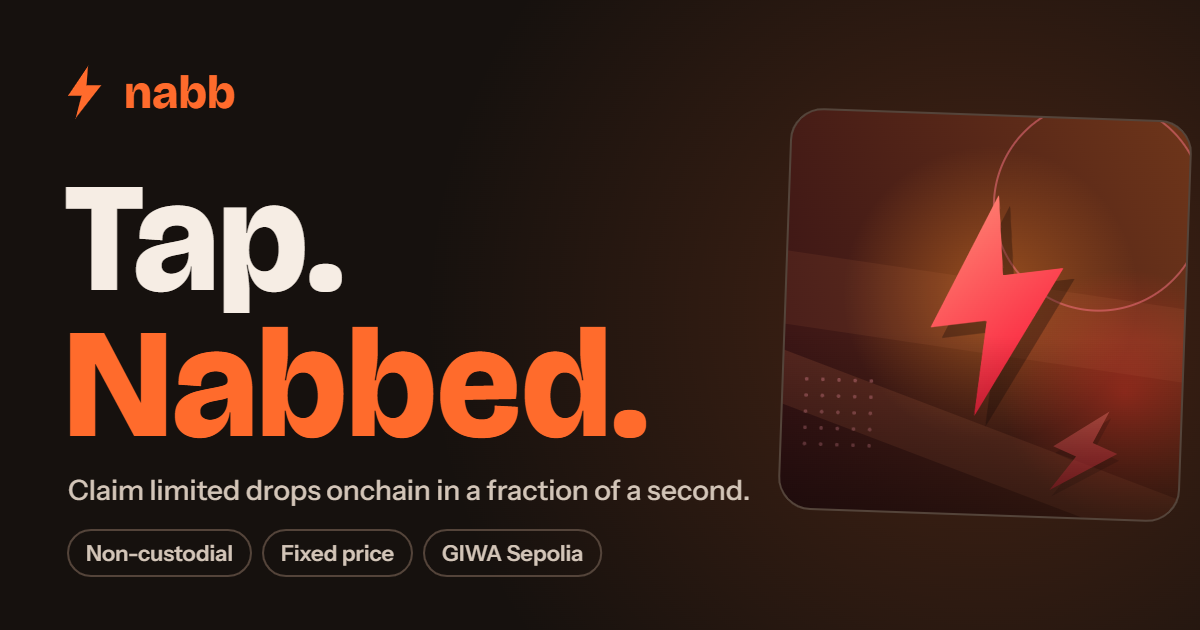
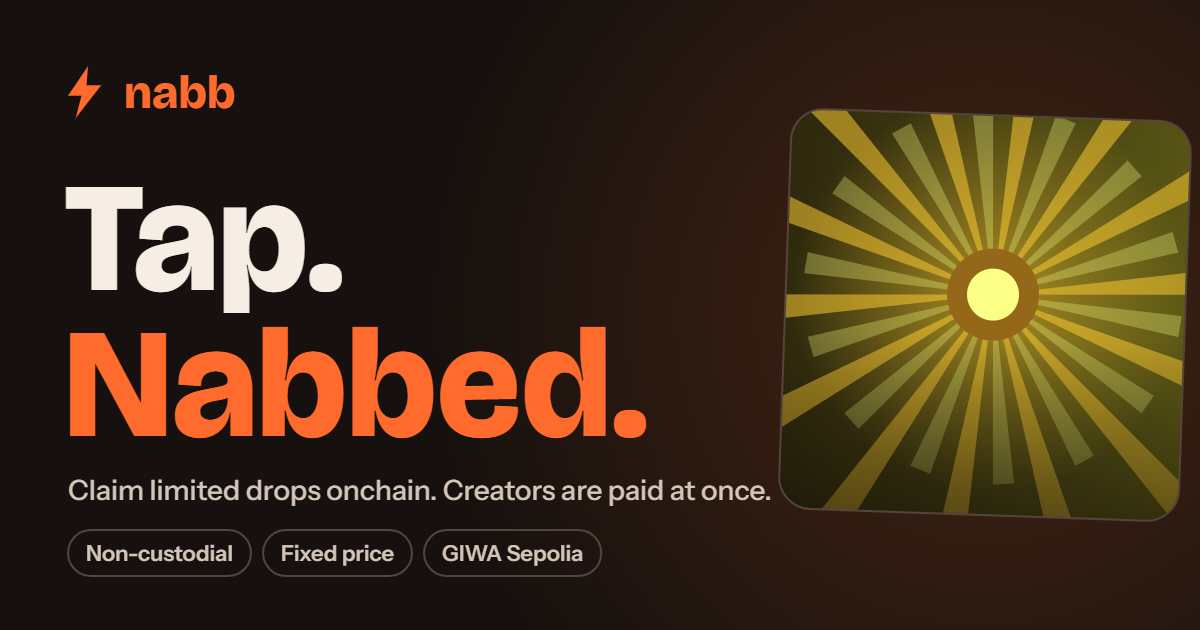
feat(web): refresh social card art and drop latency wording from page meta

Changed region(s): [[0.6475, 0.1508, 1.0, 0.8444], [0.37, 0.754, 0.6475, 0.8143]]

diff --git a/packages/web/index.html b/packages/web/index.html
@@ -6,7 +6,7 @@
     <meta name="theme-color" content="#16110e" />
     <meta
       name="description"
-      content="Claim limited drops onchain in a fraction of a second. Nabb is a non-custodial claim market on GIWA, confirmed from Flashblocks preconfirmations."
+      content="Claim limited drops onchain. Nabb is a non-custodial claim market on GIWA: the creator is paid in the same transaction, and your claim is preconfirmed from Flashblocks."
     />
     <link rel="canonical" href="https://nabb-giwa.vercel.app/" />
 
@@ -20,7 +20,7 @@
     <meta property="og:title" content="Nabb — Tap. Nabbed." />
     <meta
       property="og:description"
-      content="Claim limited drops onchain in a fraction of a second. Non-custodial, fixed price, live on GIWA Sepolia."
+      content="Claim limited drops onchain. Non-custodial, fixed price, live on GIWA Sepolia."
     />
     <meta property="og:url" content="https://nabb-giwa.vercel.app/" />
     <meta property="og:image" content="https://nabb-giwa.vercel.app/og.png" />
@@ -35,7 +35,7 @@
     <meta name="twitter:title" content="Nabb — Tap. Nabbed." />
     <meta
       name="twitter:description"
-      content="Claim limited drops onchain in a fraction of a second. Non-custodial, fixed price, live on GIWA Sepolia."
+      content="Claim limited drops onchain. Non-custodial, fixed price, live on GIWA Sepolia."
     />
     <meta name="twitter:image" content="https://nabb-giwa.vercel.app/og.png" />
     <meta
